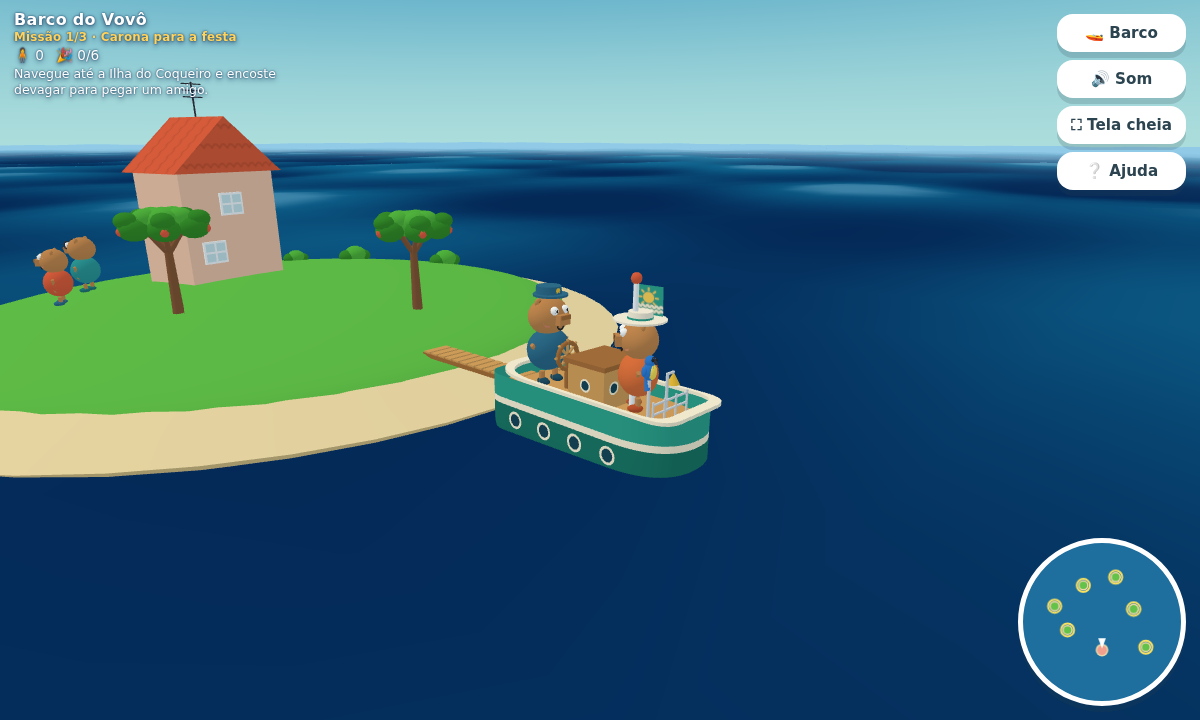
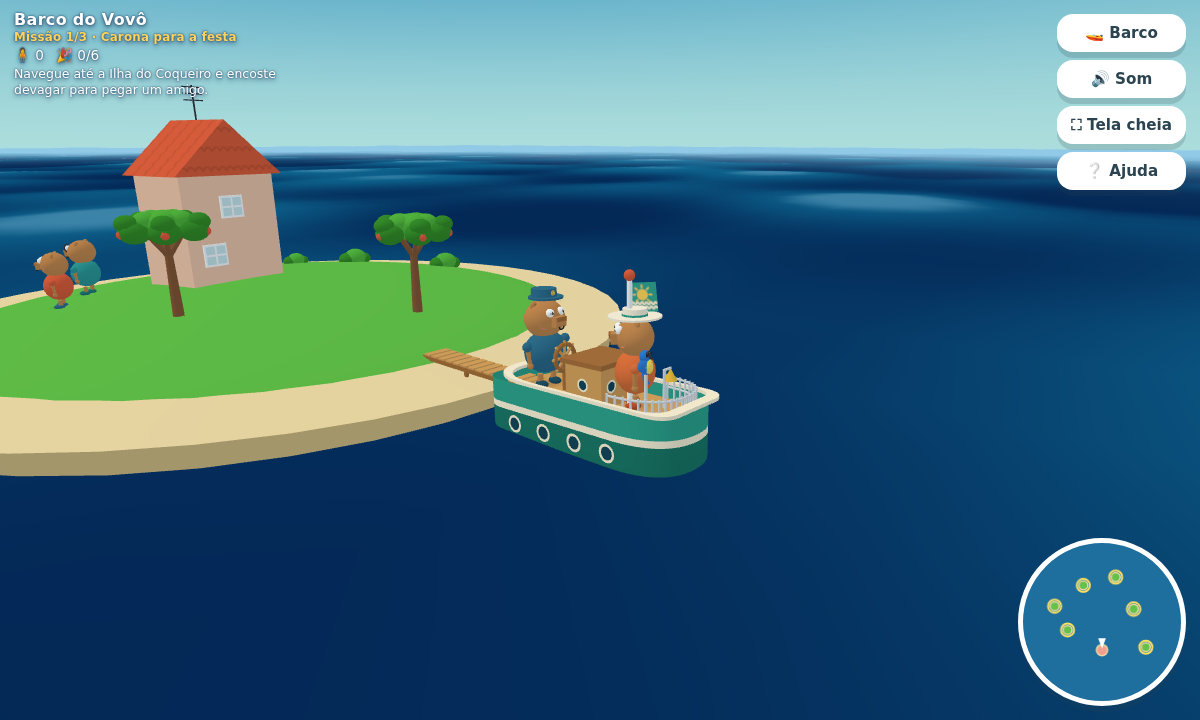
Auditoria visual: braços, boca, cais, praia, proa e sombras (#2)
Rodada de auditoria com fotos por elemento (skill auditoria-visual), uma
correção por defeito e refoto no mesmo enquadramento.

- Braços engolidos: com o pivô colado na casca do torso e 0,35 rad de
  abertura, o braço mergulhava para dentro do corpo — de costas o adulto
  era uma bola sem braços. O ombro foi para fora da bolha (1,15 × raio),
  ganhou uma esfera que tapa o vão e o braço agora pende quase reto
  (0,16 rad, no create e no updateCharacter, que sobrescrevia o create).
- Boca solta: o sorriso era um torus no meio da cara, abaixo do focinho.
  Agora cada focinho diz onde fica a boca (bloco da capivara, narizinho
  da lontra, ponta do cone do tatu).
- Personagens pareciam pairar sobre a calota da ilha: passam a ter uma
  sombrinha embaixo, com a shadowTexture() que já existia sem uso.
- Cais: era uma prancha flutuando, com estacas só na ponta (submersas) e
  nenhuma do lado da praia. Ganhou estacas em pares ao longo de todo o
  vão e ficou comprido o bastante para chegar à água.
- Praia: quase toda ela ficava abaixo da onda e sumia em ângulo raso.
  A rampa agora termina acima da linha d'água, com a areia molhada
  descendo dali.
- Guarda-corpo da proa: era uma grade reta e curta, solta no meio do
  convés. Agora os postes nascem no contorno do casco e as barras ligam
  um poste ao seguinte, acompanhando a curva da proa.
- Cauda da lontra saía na cintura, na horizontal, lendo como um terceiro
  braço: passou para baixo, junto às pernas.
[…]

Changed region(s): [[0.0, 0.1833, 1.0, 0.6722], [0.1233, 0.1222, 0.185, 0.1833], [0.9867, 0.1833, 1.0, 0.2444]]

diff --git a/src/character.js b/src/character.js
@@ -1,16 +1,45 @@
 import * as THREE from 'three';
 import { PALETTE } from './palette.js';
 import { flat, mesh } from './materials.js';
+import { shadowTexture } from './textures.js';
 
 /**
  * Os bichos da Baía Dourada: capivaras (focinho quadrado e orelhinhas redondas),
  * lontras (cabeça achatada, barriga clara e cauda de remo) e tatus (focinho
  * pontudo, orelhas compridas e casco de faixas nas costas).
  */
+// Quanto o braço fica aberto em repouso. Mais que isto e ele entra no corpo.
+const REST_ARM = 0.16;
+
+// Uma sombra por personagem, com o mesmo material: sem ela, quem está em pé na
+// calota da ilha parece pairar uns dez centímetros acima da grama.
+let shadowMaterial = null;
+function createShadow(radius) {
+  shadowMaterial ??= new THREE.MeshBasicMaterial({
+    map: shadowTexture(),
+    transparent: true,
+    depthWrite: false,
+    opacity: 0.55,
+  });
+  const shadow = new THREE.Mesh(new THREE.PlaneGeometry(radius * 2, radius * 2), shadowMaterial);
+  shadow.rotation.x = -Math.PI / 2;
+  shadow.position.y = 0.03;
+  shadow.renderOrder = 1;
+  return shadow;
+}
+
 const SPECIES = {
   capivara: { skin: PALETTE.capySkin, snout: 'blunt', ears: 'round', tail: 'none' },
   lontra: { skin: PALETTE.otterSkin, snout: 'sleek', ears: 'tiny', tail: 'paddle' },
   tatu: { skin: PALETTE.armadilloSkin, snout: 'point', ears: 'long', tail: 'taper' },
+};
+
+// Onde fica a boca em cada focinho: na base do bloco da capivara, logo abaixo
+// do narizinho da lontra e junto da ponta do cone do tatu.
+const MOUTH_AT = {
+  blunt: { y: -0.12, z: 0.56, r: 0.075 },
+  sleek: { y: -0.15, z: 0.5, r: 0.08 },
+  point: { y: -0.13, z: 0.55, r: 0.06 },
 };
 
 function createEars(kind, skin) {
@@ -82,10 +111,10 @@ function createSnout(kind, skin) {
 
 function createTail(kind, skin) {
   if (kind === 'paddle') {
-    // Cauda achatada da lontra, saindo para trás e para baixo.
+    // Cauda achatada da lontra, saindo por baixo e caindo em direção ao chão.
     const tail = mesh(new THREE.SphereGeometry(0.2, 10, 8), flat(skin));
     tail.scale.set(0.55, 0.3, 1.5);
-    tail.rotation.x = 0.5;
+    tail.rotation.x = -0.55;
     return tail;
   }
   if (kind === 'taper') {
@@ -206,6 +235,7 @@ export function createCharacter(options = {}) {
   const root = new THREE.Group();
   const body = new THREE.Group();
   root.add(body);
+  root.add(createShadow(adult ? 0.5 : 0.38));
 
   // Proporções de desenho: cabeça grande, corpo curto e pernas curtinhas — mas
   // com braços e pernas para fora da silhueta, senão a bolha do corpo os engole.
@@ -238,16 +268,19 @@ export function createCharacter(options = {}) {
     body.add(shoe);
   }
 
-  // Braços: pivô no ombro, abertos o bastante para aparecerem de qualquer ângulo.
-  const armGeometry = new THREE.CylinderGeometry(0.06, 0.06, 0.5, 7);
+  // Braços: o ombro fica fora da bolha do corpo e o braço pende quase reto.
+  // Se o pivô encosta na casca e o braço abre muito, ele mergulha para dentro
+  // do torso e o personagem vira uma bola sem braços de costas.
+  const armGeometry = new THREE.CylinderGeometry(0.06, 0.06, 0.52, 7);
   const arms = [];
   for (const sx of [-1, 1]) {
     const pivot = new THREE.Group();
-    pivot.position.set(sx * bodyRadius * 1.06, torsoY + torsoHeight * 0.2, 0.04);
-    const arm = mesh(armGeometry, flat(skinColor), 0, -0.25, 0);
-    pivot.add(arm);
-    pivot.add(mesh(new THREE.SphereGeometry(0.09, 8, 6), flat(skinColor), 0, -0.5, 0));
-    pivot.rotation.z = sx * -0.72;
+    pivot.position.set(sx * bodyRadius * 1.15, torsoY + torsoHeight * 0.22, 0.04);
+    // Esfera do ombro: tapa o vão entre o corpo e o braço afastado.
+    pivot.add(mesh(new THREE.SphereGeometry(adult ? 0.13 : 0.1, 9, 7), flat(clothes)));
+    pivot.add(mesh(armGeometry, flat(skinColor), 0, -0.26, 0));
+    pivot.add(mesh(new THREE.SphereGeometry(0.09, 8, 6), flat(skinColor), 0, -0.52, 0));
+    pivot.rotation.z = sx * -REST_ARM;
     body.add(pivot);
     arms.push(pivot);
   }
@@ -262,7 +295,7 @@ export function createCharacter(options = {}) {
   // Cauda, quando a espécie tem uma.
   const tail = createTail(config.tail, species === 'lontra' ? PALETTE.otterSkin : skinColor);
   if (tail) {
-    tail.position.set(0, torsoY - torsoHeight * 0.25, -bodyRadius * 0.95);
+    tail.position.set(0, legHeight * 0.75, -bodyRadius * 0.9);
     body.add(tail);
   }
 
@@ -305,7 +338,15 @@ export function createCharacter(options = {}) {
     cheek.rotation.y = sx * 0.5;
     head.add(cheek);
   }
-  const smile = mesh(new THREE.TorusGeometry(0.1, 0.022, 6, 12, Math.PI), flat(0x2b2b2b), 0, -0.17, 0.4);
+  // A boca acompanha o focinho: solta no meio da cara ela lê como um bigode.
+  const mouth = MOUTH_AT[config.snout];
+  const smile = mesh(
+    new THREE.TorusGeometry(mouth.r, 0.02, 6, 12, Math.PI),
+    flat(0x2b2b2b),
+    0,
+    mouth.y,
+    mouth.z
+  );
   smile.rotation.z = Math.PI;
   head.add(smile);
 
@@ -341,7 +382,7 @@ export function updateCharacter(character, time, dt) {
 
   const wave = data.waving;
   const swing = Math.sin(time * 9) * 0.6;
-  data.arms[1].rotation.z = -0.35 - wave * (2.4 + swing * 0.3);
+  data.arms[1].rotation.z = -REST_ARM - wave * (2.6 + swing * 0.3);
   data.arms[1].rotation.x = wave * swing * 0.2;
-  data.arms[0].rotation.z = 0.35 + Math.sin(time * 2 + data.phase) * 0.05;
+  data.arms[0].rotation.z = REST_ARM + Math.sin(time * 2 + data.phase) * 0.05;
 }

diff --git a/src/boat.js b/src/boat.js
@@ -1,6 +1,6 @@
 import * as THREE from 'three';
 import { PALETTE } from './palette.js';
-import { flat, flatUnique, mesh, extrude } from './materials.js';
+import { flat, flatUnique, mesh, beam, extrude } from './materials.js';
 import { flagTexture } from './textures.js';
 import { createCharacter } from './character.js';
 import { waveHeight } from './world.js';
@@ -197,19 +197,34 @@ function createLifeRing() {
   return group;
 }
 
-function createRailing(width = 1.6) {
+/**
+ * Guarda-corpo da proa: em vez de uma grade reta solta no meio do convés, os
+ * postes nascem no próprio contorno do casco e as barras ligam um poste ao
+ * seguinte — assim a grade acompanha a curva da proa e encosta nas amuradas.
+ */
+function createRailing() {
   const railing = new THREE.Group();
   const material = flat(PALETTE.metal);
-  const post = new THREE.CylinderGeometry(0.035, 0.035, 0.7, 6);
-  const posts = 4;
-  for (let i = 0; i < posts; i++) {
-    const x = (i / (posts - 1) - 0.5) * width;
-    railing.add(mesh(post, material, x, 0.35, 0));
-  }
-  for (const y of [0.35, 0.62]) {
-    const bar = mesh(new THREE.CylinderGeometry(0.035, 0.035, width, 6), material, 0, y, 0);
-    bar.rotation.z = Math.PI / 2;
-    railing.add(bar);
+  const post = new THREE.CylinderGeometry(0.035, 0.035, 0.72, 6);
+
+  // Pontos do contorno na metade da frente do barco, de bombordo a boreste.
+  const outline = hullOutline(24)
+    .filter((p) => p.y > HALF_LENGTH * 0.42)
+    .sort((a, b) => Math.atan2(a.x, a.y) - Math.atan2(b.x, b.y))
+    .map((p) => new THREE.Vector3(p.x * 0.86, 0, p.y * 0.9));
+
+  // Um poste sim, um não: com um poste por vértice a grade vira uma serra.
+  outline.forEach((ponto, i) => {
+    if (i % 2 === 0 || i === outline.length - 1) {
+      railing.add(mesh(post, material, ponto.x, 0.36, ponto.z));
+    }
+  });
+  for (let i = 0; i < outline.length - 1; i++) {
+    for (const y of [0.36, 0.66]) {
+      const de = outline[i].clone().setY(y);
+      const para = outline[i + 1].clone().setY(y);
+      railing.add(beam(de, para, 0.035, material, 6));
+    }
   }
   return railing;
 }
@@ -297,6 +312,7 @@ export class Boat {
 
     // Cabine.
     const cabin = new THREE.Group();
+    cabin.name = 'cabine';
     cabin.position.set(0, DECK, 0.1);
     cabin.add(mesh(new THREE.BoxGeometry(1.55, 1.15, 1.35), flat(PALETTE.woodDeck), 0, 0.58, 0));
     cabin.add(mesh(new THREE.BoxGeometry(1.75, 0.14, 1.55), flat(PALETTE.woodDark), 0, 1.22, 0));
@@ -313,12 +329,14 @@ export class Boat {
     }
     // Boia pendurada na parede de trás da cabine, de frente para o leme.
     const boia = createLifeRing();
+    boia.name = 'boia';
     boia.position.set(0, 0.62, -0.7);
     cabin.add(boia);
     this.hullPivot.add(cabin);
 
     // Mastro com a bandeira do sol e da onda.
     const mast = new THREE.Group();
+    mast.name = 'mastro';
     mast.position.set(0, DECK, 1.15);
     mast.add(mesh(new THREE.CylinderGeometry(0.075, 0.09, 3.6, 8), flat(0xf7f9fc), 0, 1.8, 0));
     mast.add(mesh(new THREE.SphereGeometry(0.16, 10, 8), flat(PALETTE.hullTrim), 0, 3.66, 0));
@@ -338,22 +356,26 @@ export class Boat {
       mesh(new THREE.CylinderGeometry(0.09, 0.09, 0.9, 8), flat(PALETTE.woodDark), 0, DECK + 0.45, -1.35)
     );
     const wheel = createShipWheel();
+    wheel.name = 'leme';
     wheel.position.set(0, DECK + 1.0, -1.35);
     this.hullPivot.add(wheel);
     this.wheel = wheel;
 
     const bell = createBell();
+    bell.name = 'sino';
     bell.position.set(0.5, DECK, 1.95);
     this.hullPivot.add(bell);
     this.bell = bell.userData.bell;
 
     const parrot = createParrot();
+    parrot.name = 'arara';
     parrot.position.set(-0.5, DECK, 2.1);
     this.hullPivot.add(parrot);
     this.parrot = parrot.userData.bird;
 
-    const railing = createRailing(1.5);
-    railing.position.set(0, DECK, 2.45);
+    const railing = createRailing();
+    railing.name = 'guarda-corpo';
+    railing.position.set(0, DECK, 0);
     this.hullPivot.add(railing);
 
     // Tripulação fixa: o Vovô Tonico no leme e a Vovó Marina no convés.

diff --git a/src/props.js b/src/props.js
@@ -62,6 +62,7 @@ export function createTree(scale = 1, withApples = false) {
 /** Arbusto: bolhas verdes achatadas. */
 export function createBush(scale = 1) {
   const bush = new THREE.Group();
+  bush.name = 'arbusto';
   const geometry = new THREE.SphereGeometry(0.5, 14, 10);
   const blobs = [
     [0, 0.3, 0, 1],
@@ -137,6 +138,7 @@ export function updateSwing(swing, time) {
 /** Pequeno cais de madeira: marca onde o barco atraca. */
 export function createDock(length = 2.6) {
   const dock = new THREE.Group();
+  dock.name = 'cais';
   // Tábua corrida, com ripas por cima para dar textura sem virar uma escada.
   const base = mesh(
     new THREE.BoxGeometry(1.0, 0.14, length),
@@ -153,9 +155,15 @@ export function createDock(length = 2.6) {
     dock.add(mesh(plankGeometry, flat(PALETTE.woodDeck), 0, 0.09, -0.2 + i * 0.4));
   }
 
-  const postGeometry = new THREE.CylinderGeometry(0.08, 0.08, 1.5, 6);
-  for (const sx of [-1, 1]) {
-    dock.add(mesh(postGeometry, flat(PALETTE.woodDark), sx * 0.38, -0.7, length - 0.75));
+  // Estacas em pares ao longo de todo o cais — sem elas a prancha fica
+  // pairando sobre a areia, sem nada que a segure.
+  const postGeometry = new THREE.CylinderGeometry(0.08, 0.08, 2.2, 6);
+  const pares = Math.max(2, Math.round(length / 1.6));
+  for (let i = 0; i < pares; i++) {
+    const z = -0.2 + (i / (pares - 1)) * (length - 0.6);
+    for (const sx of [-1, 1]) {
+      dock.add(mesh(postGeometry, flat(PALETTE.woodDark), sx * 0.38, -1.05, z));
+    }
   }
   return dock;
 }

diff --git a/src/island.js b/src/island.js
@@ -66,10 +66,10 @@ export function createIsland(config) {
   // de brigar pixel a pixel com um anel plano quase à mesma altura.
   const beachRadius = radius + BEACH_WIDTH;
   const beach = mesh(
-    new THREE.CylinderGeometry(radius * 0.94, beachRadius, 0.85, 44, 1, true),
+    new THREE.CylinderGeometry(radius * 0.9, beachRadius, 0.32, 44, 1, true),
     flat(PALETTE.sand),
     0,
-    0.025,
+    0.46,
     0
   );
   island.add(beach);
@@ -78,10 +78,10 @@ export function createIsland(config) {
   // continua sendo areia molhada, e não a base escura.
   island.add(
     mesh(
-      new THREE.CylinderGeometry(beachRadius, beachRadius * 0.98, 1.6, 44),
+      new THREE.CylinderGeometry(beachRadius, beachRadius * 0.98, 1.9, 44),
       flat(PALETTE.sandDark),
       0,
-      -1.2,
+      -0.65,
       0
     )
   );
@@ -169,7 +169,7 @@ export function createIsland(config) {
   }
 
   // Cais: fica na borda voltada para o centro do arquipélago.
-  const dock = createDock(BEACH_WIDTH + 2.6);
+  const dock = createDock(BEACH_WIDTH + 4.4);
   dock.name = 'cais';
   const dockDistance = radius - 1.0;
   dock.position.set(
